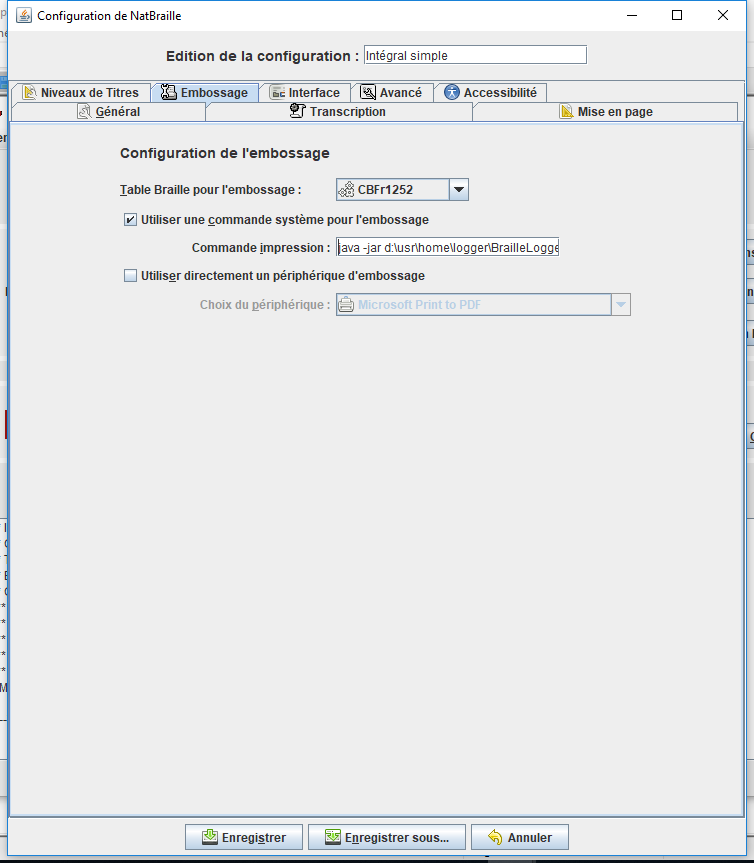
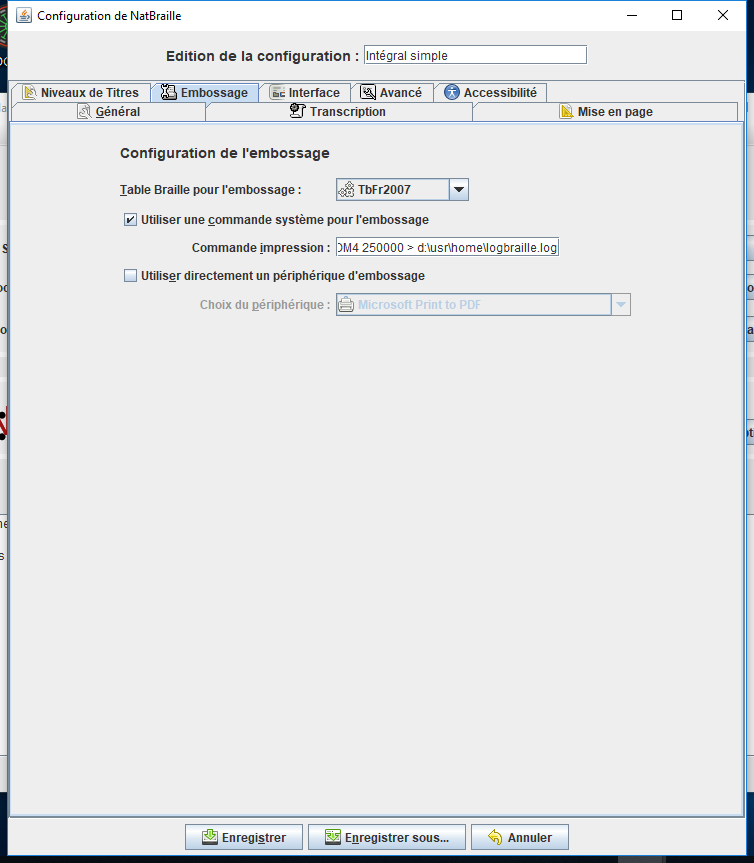
updateBraille encoding

diff --git a/docs/firstembossingpage.rst b/docs/firstembossingpage.rst
@@ -30,12 +30,12 @@ Configuration NatBraille
 
 Compiler les programmes dans le repertoire NatBrailleTools du projet
 
-Dans les options générales NatBraille, utiliser **CBFr1252** pour la table braille, Encodage document noir **Automtique**, Encodage document braille **Windows1252**
+Dans les options générales NatBraille, utiliser **TbFr2007** pour la table braille, Encodage document noir **Automtique**, Encodage document braille **Windows1252**
 
 .. image :: ./IMG/natbraille.png
        :align: center
 
-Dans les options d'embossage, utiliser **CBFr1252** pour la table braille pour l'embossage
+Dans les options d'embossage, utiliser **TbFr2007** pour la table braille pour l'embossage
 
 Activer l'option **utiliser une command systeme pour l'embossage**
 
